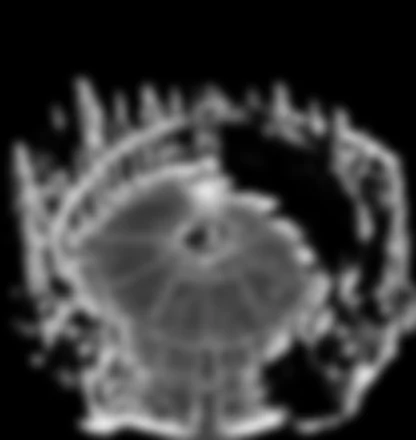
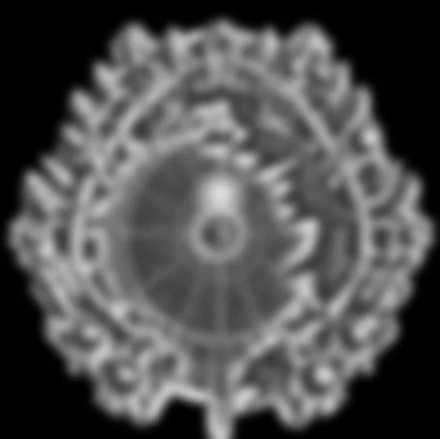
feat(flight): 街廓量體取代網格抬升；聖王廳改用頂視圖 — ver -202
量體層改寫（HANDOFF 待辦 4）
舊版把高度圖拿去位移**共用的**網格頂點，等於把紋理整片往上剪切：高度圖必須
先糊 5px、planTall 得夾在 26/40，再高就糊成一團灰。改成 build_city.py 切出
街廓多邊形、runtime 各自拉伸成獨立稜柱（垂直牆＋平屋頂），塊與塊不共用頂點
→ 沒有剪切 → 高度沒有上限，街道自然成為塊間的谷。

過程中排除掉的兩條路（別再走一次）：
· 「平面空間的規則格陣」：街道只有 4~8px、街廓 15~40px，要解析出街道得切到
  N≈60~100＝上萬個稜柱。多邊形 283 塊就拿到精確形狀。
· 「局部對比當高度」：這批插畫**亮＝街道**（聖王廳的塔頂受光是唯一例外），
  所以亮度只能拿來分街道／街廓，不能當高度。

實作要點
· 每塊在 atlas 上有自己的 alpha —— 直接貼 bbox 會把鄰塊與街道一起抬起來。
· 牆整批累積成一條路徑、一次 fill（顏色都一樣），是這層最大的一筆節省。
· 由遠而近的順序在載入時依 32 個方位分桶打表，每幀零排序。
· 保險絲：塊內深度比例 >3 就不畫。漏掉這條會有一道白色光柱從城裡射進天空
  （回報的「飄圖穿過前景」）。
· 緩衝外框上緣要為量體讓出 tall·scaleH·syk/zmin，否則塔頂被切平。

聖王廳
· 改用 holysee_topdown.png（真頂視圖），unsquash 1.60→1.10。
· noWater：藍色圓頂有 18.2% 的像素滿足「藍高於紅」的判水條件，不擋的話
  「地形遷就插畫」那一步會把整座聖座挖成湖 —— 回報的「跨到河」就是這個。
  擋在 runtime，因為判水的是那段程式，build 端算掉顏色不會改變它讀到的像素。

另：開發用加速鈕（操作面板左上，×1/×2）。倍率套在位移而不是 cam.speed，
免得速度錶、螺旋槳、尾流跟著說謊。

diff --git a/flight/index.html b/flight/index.html
@@ -54,6 +54,13 @@
     color:var(--gold);font-family:inherit;font-size:11px;letter-spacing:.14em;
     padding:5px 12px;cursor:pointer;}
   #spawnBtn:active{background:rgba(201,162,39,.16);}
+  /* 加速鈕：開發用。放操作盤**左上**（生怪鈕在左下，兩者不打架）。
+     top 由 JS 設成 VIEWH+12 —— 面板上緣是算出來的，CSS 這邊沒有那個數字。 */
+  #boostBtn{position:fixed;left:12px;z-index:40;background:rgba(5,6,12,.72);
+    border:1px solid rgba(201,162,39,.5);color:var(--gold);font-family:inherit;
+    font-size:11px;letter-spacing:.14em;padding:5px 12px;cursor:pointer;}
+  #boostBtn:active{background:rgba(201,162,39,.16);}
+  #boostBtn.on{color:#7fd0a0;border-color:rgba(127,208,160,.8);}
 
   /* 地圖畫面：圖是點開才載的（見 openMap），不進開場載入 */
   #mapView{position:fixed;inset:0;z-index:60;background:rgba(4,5,9,.94);display:none;}
@@ -151,6 +158,7 @@
 <button id="muteBtn" aria-label="Mute">🔊</button>
 <button id="backBtn">← 返回</button>
 <button id="spawnBtn">生怪</button>
+<button id="boostBtn">×1</button>
 <div id="mapView">
   <div id="mapWrap">
     <canvas id="mapCv"></canvas>
@@ -356,7 +364,7 @@ const SETTLEMENTS = [
        要再高就得先讓量體改走多邊形（街廓拉伸），不能靠位移網格頂點。 */
   { n:'聖王廳', x:934,  y:606, t:'city2', f:'church',
     plan:'city/holysee_plan.webp', planH:'city/holysee_h.webp',
-    planW:1100, planRot:0.0, planTall:40 },
+    planW:1100, planRot:0.0, planTall:40, noWater:true },
   { n:'大教堂城',     x:1224, y:581, t:'city2', f:'church' },
   { n:'曙光城',       x:1373, y:581, t:'city3', f:'church' },
   { n:'石櫃城',       x:530,  y:311, t:'city2', f:'empire' },
@@ -422,6 +430,69 @@ const SETTLEMENTS = [
    ⚠ 不進 loadWorld：它只影響少數幾座城的外觀，擋開場不划算。 */
 const cityPlanArt={};
 const cityHeight={};        // {w,h,d} —— 高度圖的灰階陣列
+const cityMass={};          // plan → 街廓量體（多邊形＋atlas），見 loadMass
+const cityMassArt={};       // plan → atlas 圖
+
+/* ══ 街廓量體 ══
+   舊作法是「把網格頂點依高度圖抬起來」，而網格頂點是**相鄰格共用**的 ——
+   抬任何一點都等於把整張紋理往上剪切，屋頂會拖過旁邊的街道。所以高度圖必須
+   先糊 5px、planTall 還得夾在 26（不然整座城糊成一團灰）。
+
+   改成 build_city.py 切出來的**街廓多邊形**，每塊各自拉伸成獨立的稜柱
+   （垂直牆＋平屋頂）。塊與塊不共用頂點 → 沒有剪切 → 高度沒有上限，
+   而街道自然成為塊與塊之間的谷 —— 那就是天際線。
+
+   ⚠ 為什麼不用「平面空間的規則格陣」（我的第一版）：街道只有 4~8px 寬、
+     街廓 15~40px，要用格陣解析出街道得切到 N≈60~100，那是上萬個稜柱。
+     多邊形用 283 塊就拿到精確形狀，成本是格陣的一小部分。
+   ⚠ 每塊在 atlas 上有**自己的 alpha**。直接拿 bbox 去貼會把鄰塊與街道一起
+     抬上來，那只是把舊版的剪切問題換個樣子。
+   ⚠ 由遠而近的順序**在載入時打表**：深度對平面座標 (u,v) 是仿射的，所以順序
+     只取決於 (gradU,gradV) 的方位角。切 32 個方位各存一份排序，每幀零排序。 */
+const MASS_AZ=32;                    // 方位分桶數
+function loadMass(planKey){
+  const base=planKey.replace('_plan.webp','_mass');
+  fetch(base+'.json').then(r=>r.ok?r.json():null).then(J=>{
+    if(!J||!J.b||!J.b.length) return;
+    const nb=J.b.length;
+    const cu=new Float32Array(nb), cv=new Float32Array(nb);
+    const hv=new Float32Array(nb);
+    const bb=new Float32Array(nb*4);          // atlas x,y + 寬高（插畫像素）
+    const bbx=new Float32Array(nb*4);         // bbox 在平面座標（−1..1）的四角
+    const pu=[], pv=[];                       // 每塊的多邊形（平面座標 −1..1）
+    for(let i=0;i<nb;i++){
+      const b=J.b[i], n=b.p.length>>1;
+      const au=new Float32Array(n), av=new Float32Array(n);
+      let su=0, sv=0;
+      for(let k=0;k<n;k++){
+        const u=b.p[k*2]/(J.w-1)*2-1, v=b.p[k*2+1]/(J.h-1)*2-1;
+        au[k]=u; av[k]=v; su+=u; sv+=v;
+      }
+      pu.push(au); pv.push(av);
+      cu[i]=su/n; cv[i]=sv/n; hv[i]=b.h;
+      bb[i*4]=b.at[0]; bb[i*4+1]=b.at[1]; bb[i*4+2]=b.bb[2]; bb[i*4+3]=b.bb[3];
+      bbx[i*4]  =b.bb[0]/(J.w-1)*2-1;              bbx[i*4+1]=b.bb[1]/(J.h-1)*2-1;
+      bbx[i*4+2]=(b.bb[0]+b.bb[2])/(J.w-1)*2-1;    bbx[i*4+3]=(b.bb[1]+b.bb[3])/(J.h-1)*2-1;
+    }
+    /* 方位分桶排序：key＝gradU·cu+gradV·cv，只取決於 (gradU,gradV) 的方向，
+       所以每個方位桶算一次就固定了。由遠（key 大）而近。 */
+    const ord=[];
+    for(let a=0;a<MASS_AZ;a++){
+      const th=(a+0.5)/MASS_AZ*Math.PI*2, gu=Math.cos(th), gv=Math.sin(th);
+      const idx=new Uint16Array(nb);
+      for(let i=0;i<nb;i++) idx[i]=i;
+      const key=new Float32Array(nb);
+      for(let i=0;i<nb;i++) key[i]=gu*cu[i]+gv*cv[i];
+      Array.prototype.sort.call(idx,(x,y)=>key[y]-key[x]);
+      ord.push(idx);
+    }
+    cityMass[planKey]={n:nb,pu:pu,pv:pv,h:hv,bb:bb,bbx:bbx,ord:ord,aw:J.aw,ah:J.ah};
+    const at=new Image();
+    at.onload=()=>{ cityMassArt[planKey]=at; };
+    at.src=base+'.webp';
+  }).catch(()=>{});
+}
+
 /* ⚠ 地形要依平面圖的水域去挖海／填地，所以整平 pass 必須等圖載完。
    這幾張加起來不到 400KB，擋一下開場划算——不擋的話海岸線會與城對不上。 */
 const cityPlansReady=[];
@@ -435,6 +506,7 @@ const cityPlansReady=[];
         setTimeout(res,4000);            // 保底：載不到也不能無限擋開場
       }));
       im.src=S.plan;
+      if(!(S.plan in cityMass)){ cityMass[S.plan]=null; loadMass(S.plan); }
     }
     if(S.planH){
       /* 高度圖要能**逐點取值**，所以載進來就抽成陣列。
@@ -782,7 +854,7 @@ const CITY_BAKED_VAL=0.86;
    （街道、屋瓦本來就淺），但 1.4 讀起來還是像在發光。0.88 把它收到 1.2 附近。 */
 const CITY_TRIM=0.88;
 
-let cityPts=null, cityGnd=null;
+let cityPts=null, cityGnd=null, massPts=null;   // massPts＝街廓量體的地面格點
 let cityU=null, cityV=null;                 // 兩軸的格線（平面座標 −1..1，非均勻）
 let settleCache=null;                       // 生成結果快取（純函式，算一次就好）
 function buildSettlements(){
@@ -1085,6 +1157,12 @@ async function loadWorld(){
       const hw=S.planW*0.5/MAP_SCALE, hh=hw*img.height/img.width;
       const ca=Math.cos(S.planRot), sa=Math.sin(S.planRot);
       const rr=Math.ceil(Math.max(hw,hh))+2;
+      /* ⚠ noWater：聖王廳的頂視圖是「藍色圓頂」，不是水。實測那張圖有 18.2%
+         的像素滿足下面那條「藍高於紅」的判定 —— 不擋的話這裡會把整座聖座
+         挖成一片湖（使用者回報的「聖王廳跨到河」就是這個）。
+         ⚠ 擋在 runtime 而不是把素材改色：判水的是這段程式，build 端把顏色
+           算掉並不會改變它讀到的像素。 */
+      const noW=!!S.noWater;
       const gh=S.gh||(CLOUD_H+80);
       const wl=Math.max(CLOUD_H+6, gh-9);   // 水面：壓在地基之下一點
       let water=0, land=0;
@@ -1098,7 +1176,7 @@ async function loadWorld(){
         const j2=(py*SS+px)*4;
         if(pd[j2+3]<60) continue;           // 圖上是空的就不動地形
         const i=y*MAPW+x;
-        if(pd[j2+2]>pd[j2]+8 && pd[j2+2]>50){     // 插畫說這裡是水
+        if(!noW && pd[j2+2]>pd[j2]+8 && pd[j2+2]>50){     // 插畫說這裡是水
           HGT[i]=wl; raw[i]=wl/PEAK_SCALE; RIV[i]=1; COL[i]=rgb(84,120,142); water++;
         }else if(HGT[i]<=CLOUD_H){                // 插畫說是陸、但地形是海 → 填起來
           HGT[i]=gh; raw[i]=gh/PEAK_SCALE; land++;
@@ -1516,6 +1594,8 @@ let SKYROW=null;     // 每列的天空色，輪廓混色要拿它當背景
 function resize(){
   W=innerWidth;H=innerHeight;
   VIEWH=Math.round(H*VIEW_F);
+  { const bb=document.getElementById('boostBtn');
+    if(bb) bb.style.top=(VIEWH+12)+'px'; }
   cv.width=W;cv.height=H;cv.style.width=W+'px';cv.style.height=H+'px';
   ctx.imageSmoothingEnabled=false;
   /* 緩衝寬度佔畫面寬的比例。維持 0.60。
@@ -2057,7 +2137,7 @@ function update(dt,now){
 
   cam.alt=CRUISE_ALT;
   const fx=-Math.sin(cam.angle), fy=-Math.cos(cam.angle);
-  const mv=cam.speed*dt*0.06;
+  const mv=cam.speed*dt*0.06*SPD_BOOST;
   cam.x+=fx*mv; cam.y+=fy*mv;
   clock.dist+=Math.abs(mv);              // 後退也是航行距離，不該倒扣
   /* 0.10：時間跟著「走了多少世界單位」推進，而速度與世界都加倍了，
@@ -2910,6 +2990,17 @@ function updateEnemy(dt,now){
   if(dist<=C.engage){ enemy.state='engage'; enemy.tEngage=now; }
 }
 
+/* 加速鈕（開發用）：點一下位移加倍，再點一次回復。
+   ⚠ 倍率套在**位移**（mv）而不是 cam.speed：cam.speed 同時驅動速度錶、
+     螺旋槳轉速、尾流與船身俯仰，乘上去會讓那些儀表一起說謊。要的只是
+     「同樣的操作手感，跑得比較快」，所以只放大每幀走的距離。 */
+let SPD_BOOST=1;
+document.getElementById('boostBtn').addEventListener('click',e=>{
+  SPD_BOOST = SPD_BOOST>1 ? 1 : 2;
+  e.currentTarget.textContent='×'+SPD_BOOST;
+  e.currentTarget.classList.toggle('on', SPD_BOOST>1);
+});
+
 /* 生怪鈕（開發用）：立刻換一隻新的，並把自動刷新的計時歸零重算，
    免得手動生完隔幾秒又被自動刷新蓋掉。 */
 document.getElementById('spawnBtn').addEventListener('click',()=>{
@@ -3692,7 +3783,13 @@ function drawSettlements3D(scaleH,horizon,sinp,cosp){
          抬升量取自高度圖，讓大教堂與山坡上的莊園立起來、一般屋舍稍微墊高。
          ⚠ 立面刻意很小：這個尺寸下一格才幾像素，立面畫大了必破圖。
          ⚠ 沒有高度圖就 G === P，等於維持原本的平貼。 */
-      const HM=o.s.planH?cityHeight[o.s.planH]:null;
+      /* ⚠ 有量體層（MASS）時地面層就**退回平貼**：HM 留 null → hAt 恆 0 →
+         GD 與 PT 同值 → lift 為 0，下面那段立面也自動不畫。
+         抬升與立面改由量體層負責，兩邊都做就會疊出雙重牆。 */
+      /* ⚠ cityMass 是以 **plan**（色圖）為 key，不是 planH。載入時每張 plan
+         只抓一次街廓資料，而十一座市鎮共用同一張 mtown_plan。 */
+      const MASS=o.s.plan?cityMass[o.s.plan]:null;
+      const HM=(!MASS&&o.s.planH)?cityHeight[o.s.planH]:null;
       const tall=o.s.planTall||0;
       const hAt=(u,v)=>{
         if(!HM||!tall) return 0;
@@ -3721,12 +3818,17 @@ function drawSettlements3D(scaleH,horizon,sinp,cosp){
            在主畫布上 render 要 51ms（≈19fps）。
          · 城的顆粒才跟世界一致。地形是 234×334 上採樣的，城若用全解析度
            貼，會比地形銳利得多，本身就是違和點。 */
-      let bx0=1e9,by0=1e9,bx1=-1e9,by1=-1e9;
+      let bx0=1e9,by0=1e9,bx1=-1e9,by1=-1e9,zmn=1e9;
       for(let q=0;q<NP*4;q+=4){                  // 抬升後的點最高，框它就夠
         const px=PT[q], py=PT[q+1];
         if(px<bx0)bx0=px; if(px>bx1)bx1=px;
         if(py<by0)by0=py; if(py>by1)by1=py;
+        if(PT[q+3]<zmn)zmn=PT[q+3];
       }
+      /* ⚠ 有量體層時上緣要再往上讓：上面那個外框是用**地面**格點算的，而稜柱
+         是往上長的 —— 不讓的話塔頂會被緩衝的上緣切平（實測帝都近距離整排
+         屋頂被削掉）。讓的量＝最高的量體在最近的那個深度投影出來的像素高度。 */
+      if(MASS&&tall>0) by0-=tall*scaleH*syk/Math.max(60,zmn);
       /* ⚠ 外框夾在**視窗內**，不是視窗外 600px。飛近時量體的投影會遠遠
          溢出畫面，原本那個 ±600 讓緩衝長到 954×524＝約 50 萬像素 ——
          比整個地形緩衝（234×334＝7.8 萬）還大六倍，而且多出來的部分
@@ -3833,6 +3935,113 @@ function drawSettlements3D(scaleH,horizon,sinp,cosp){
                            (qax-a1*sx-c1*sy-bx0)*kx, (qay-b1*sx-d1*sy-by0)*ky);
           CFB.drawImage(planImg, sx,sy,sw+1.2,shh+1.2, sx,sy,sw+1.2,shh+1.2);
         }
+      }
+
+      /* ── 街廓量體 ─────────────────────────────────────────────
+         上面那層已經把平面圖平貼在地上了。這一層在它上面把每個街廓拉伸成
+         獨立的稜柱：垂直牆＋平屋頂，塊與塊不共用頂點。
+
+         ⚠ 這是與舊版最關鍵的差別。舊版抬的是共用的網格頂點，等於把紋理整片
+           往上剪切，所以高度圖要先糊 5px、planTall 要夾在 26。街廓各自獨立，
+           街道自然成為塊與塊之間的谷 —— 高度因此沒有上限。
+
+         ⚠ 頂面不必重新投影：垂直抬升不改變 sv，所以螢幕 x 與地面同值，
+           只有 y 差 (h/z)·scaleH·syk。每個頂點省一次 projectInto。
+         ⚠ 所有牆累積成**一條路徑、一次 fill**：顏色都一樣，幾百次 fill 換成
+           一次，這是這一層最大的一筆節省。 */
+      const MS=MASS, MA=cityMassArt[o.s.plan];
+      if(MS&&MA&&tall>0&&Math.max(fw,fh)*pk>=36){
+        const dyk=scaleH*syk;
+        /* 方位桶：由遠而近的順序只取決於 (gradU,gradV) 的方向（見 loadMass）。 */
+        let az=Math.atan2(gradV,gradU)/(Math.PI*2); az-=Math.floor(az);
+        const ORD=MS.ord[Math.min(MASS_AZ-1,(az*MASS_AZ)|0)];
+        const sux2=planImg.width*0.5, svy2=planImg.height*0.5;
+        if(!massPts||massPts.length<64) massPts=new Float64Array(64);
+        const MP=massPts;
+        /* 第一趟：牆。整批累積成一條路徑，最後一次 fill。 */
+        CFB.setTransform(kx,0,0,ky,-bx0*kx,-by0*ky);
+        CFB.beginPath();
+        let anyWall=false;
+        const drawn=[];
+        for(let t=0;t<MS.n;t++){
+          const bi=ORD[t], au=MS.pu[bi], av=MS.pv[bi], np2=au.length;
+          const hW=MS.h[bi]*tall;
+          if(hW<=0.5) continue;
+          /* 多邊形頂點：地面投影 + 立面高度。頂點數 ≤12（build 端簡化過）。 */
+          if(MP.length<np2*4){ massPts=new Float64Array(np2*4); }
+          const P=massPts;
+          let ok=true, S2=0, mnx=1e9,mxx=-1e9,mny=1e9,mxy=-1e9;
+          let zlo=1e9, zhi=-1e9;
+          for(let k=0;k<np2;k++){
+            const x0=au[k]*hw, y0=av[k]*hh;
+            projectInto(P,k*4,(x0*ca-y0*sa)/MAP_SCALE,(x0*sa+y0*ca)/MAP_SCALE,0);
+            const zk=P[k*4+3];
+            if(zk<60){ ok=false; break; }
+            if(zk<zlo)zlo=zk; if(zk>zhi)zhi=zk;
+          }
+          if(!ok) continue;
+          /* ⚠ 保險絲：一塊之內的深度比例失控（近端比遠端近三倍以上）就整塊不畫。
+             仿射矩陣吃不下這種形狀，畫出來是一道放射狀的拖曳 —— 低空貼近帝都時
+             會看到一條白色光柱從城裡射進天空（使用者回報的「飄圖穿過前景」）。
+             舊的網格版本有這條，我搬成多邊形時漏了。寧可缺一塊。 */
+          if(zhi>zlo*3) continue;
+          /* 頂面 y：各頂點用自己的 z（近的牆高、遠的牆矮，稜柱該有的透視）。 */
+          for(let k=0;k<np2;k++){
+            const L=hW*dyk/P[k*4+3];
+            P[k*4+2]=L;                                   // 借第三欄存立面高度
+            const ty=P[k*4+1]-L, px=P[k*4];
+            if(px<mnx)mnx=px; if(px>mxx)mxx=px;
+            if(ty<mny)mny=ty; if(P[k*4+1]>mxy)mxy=P[k*4+1];
+          }
+          if(mnx>bx1||mxx<bx0||mny>by1||mxy<by0) continue;
+          if(mxx-mnx<0.7&&mxy-mny<0.7) continue;          // 螢幕上不到一像素
+          // 頂面的螢幕帶號（shoelace）
+          for(let k=0;k<np2;k++){
+            const k2=(k+1)%np2;
+            S2+=P[k*4]*(P[k2*4+1]-P[k2*4+2])-P[k2*4]*(P[k*4+1]-P[k*4+2]);
+          }
+          /* 牆的帶號 2A=(x_q−x_p)(L_p+L_q)，與頂面**異號**的才是朝鏡頭的下緣。
+             同號的兩面被屋頂自己擋住，畫了看不到還會與鄰塊互相穿插。 */
+          for(let k=0;k<np2;k++){
+            const k2=(k+1)%np2;
+            const pxx=P[k*4], pyy=P[k*4+1], Lp=P[k*4+2];
+            const qxx=P[k2*4], qyy=P[k2*4+1], Lq=P[k2*4+2];
+            if((qxx-pxx)*S2>=0) continue;
+            CFB.moveTo(pxx,pyy-Lp); CFB.lineTo(qxx,qyy-Lq);
+            CFB.lineTo(qxx,qyy);    CFB.lineTo(pxx,pyy);
+            CFB.closePath(); anyWall=true;
+          }
+          drawn.push(bi);
+        }
+        if(anyWall) CFB.fill();                           // fillStyle 沿用地面層的暗色
+        /* 第二趟：屋頂。每塊一次 drawImage —— atlas 上那一格已經帶著自己的
+           alpha，所以不必逐塊 clip（clip 要重新光柵化路徑，幾百塊就吃掉畫格）。 */
+        for(let t=0;t<drawn.length;t++){
+          const bi=drawn[t], hW=MS.h[bi]*tall;
+          const ax2=MS.bb[bi*4], ay2=MS.bb[bi*4+1],
+                bw2=MS.bb[bi*4+2], bh2=MS.bb[bi*4+3];
+          if(bw2<1||bh2<1) continue;
+          /* 三個角定仿射：bbox 在插畫上的 (x,y)/(x+w,y)/(x,y+h)，抬到 hW。 */
+          const gx0=MS.bbx[bi*4], gy0=MS.bbx[bi*4+1],
+                gx1=MS.bbx[bi*4+2], gy1=MS.bbx[bi*4+3];
+          const c3=[[gx0,gy0],[gx1,gy0],[gx0,gy1]], sc3=[];
+          let bad=false;
+          for(let k=0;k<3;k++){
+            const x0=c3[k][0]*hw, y0=c3[k][1]*hh;
+            projectInto(MP,0,(x0*ca-y0*sa)/MAP_SCALE,(x0*sa+y0*ca)/MAP_SCALE,hW);
+            if(MP[3]<60){ bad=true; break; }
+            sc3.push([MP[0],MP[1]]);
+          }
+          if(bad) continue;
+          const a2=(sc3[1][0]-sc3[0][0])/bw2, b2=(sc3[1][1]-sc3[0][1])/bw2,
+                c2=(sc3[2][0]-sc3[0][0])/bh2, d2=(sc3[2][1]-sc3[0][1])/bh2;
+          if(!isFinite(a2)||!isFinite(d2)||Math.abs(a2*d2-b2*c2)<1e-7) continue;
+          CFB.setTransform(a2*kx, b2*ky, c2*kx, d2*ky,
+                           (sc3[0][0]-a2*ax2-c2*ay2-bx0)*kx,
+                           (sc3[0][1]-b2*ax2-d2*ay2-by0)*ky);
+          CFB.drawImage(MA, ax2,ay2,bw2,bh2, ax2,ay2,bw2,bh2);
+        }
+        CFB.setTransform(1,0,0,1,0,0);
       }
       /* 依光線上色：同 drawShip 那套。素材本身已經把「固定的色調對齊」烘進去
          （build_city.py 的 SAT/VAL），這裡只加隨時間變的部分。

diff --git a/config.js b/config.js
@@ -8,7 +8,7 @@
 
 /* 版本號：顯示於診斷 HUD（首頁連點團徽 5 下開啟），每次部署遞增尾碼——
  *  用來確認手機（尤其 iOS 主畫面 App 的頑固快取）實際跑到的是哪一版。 */
-export const VERSION = 'ver 2026.08.19-201';
+export const VERSION = 'ver 2026.08.19-202';
 
 export const GAME_CONFIG = {
 
